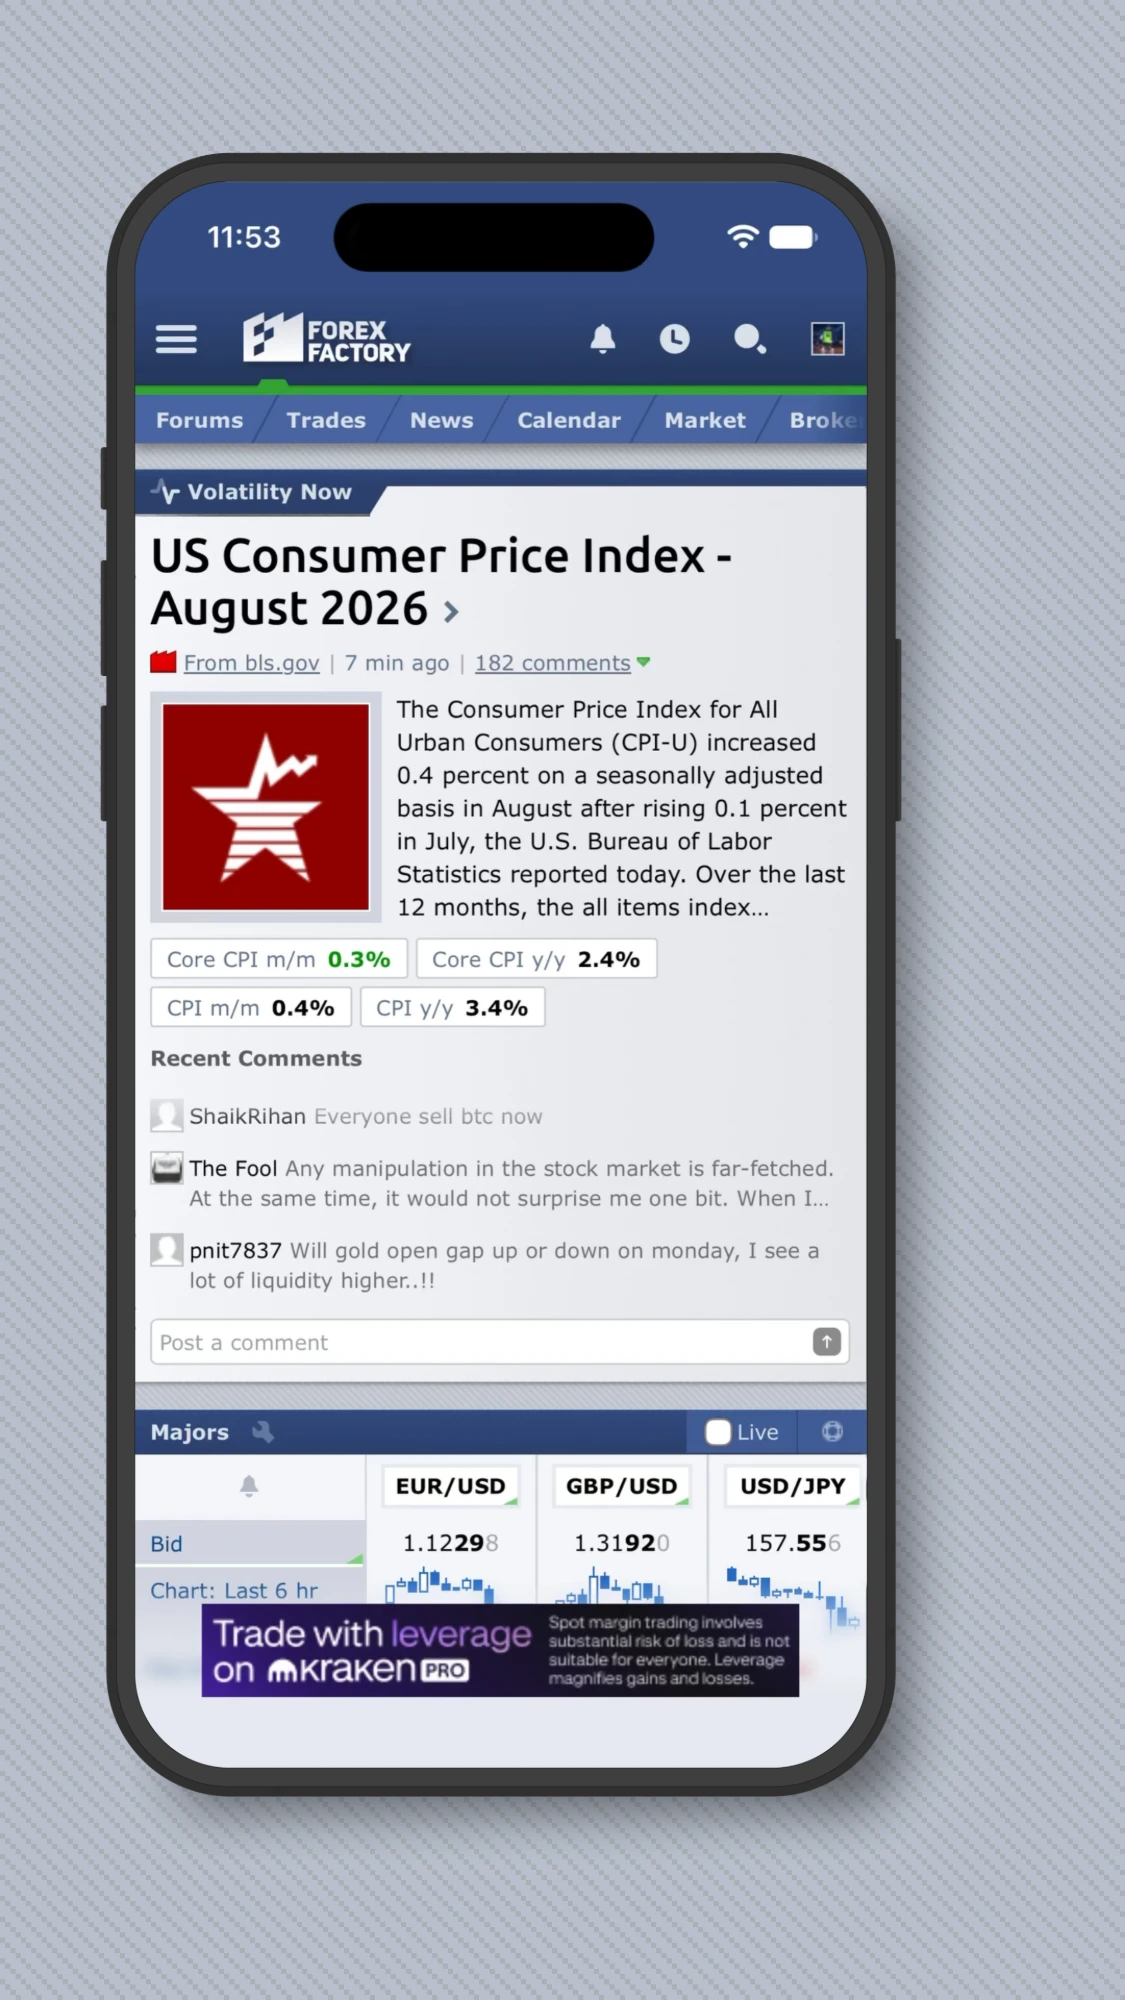
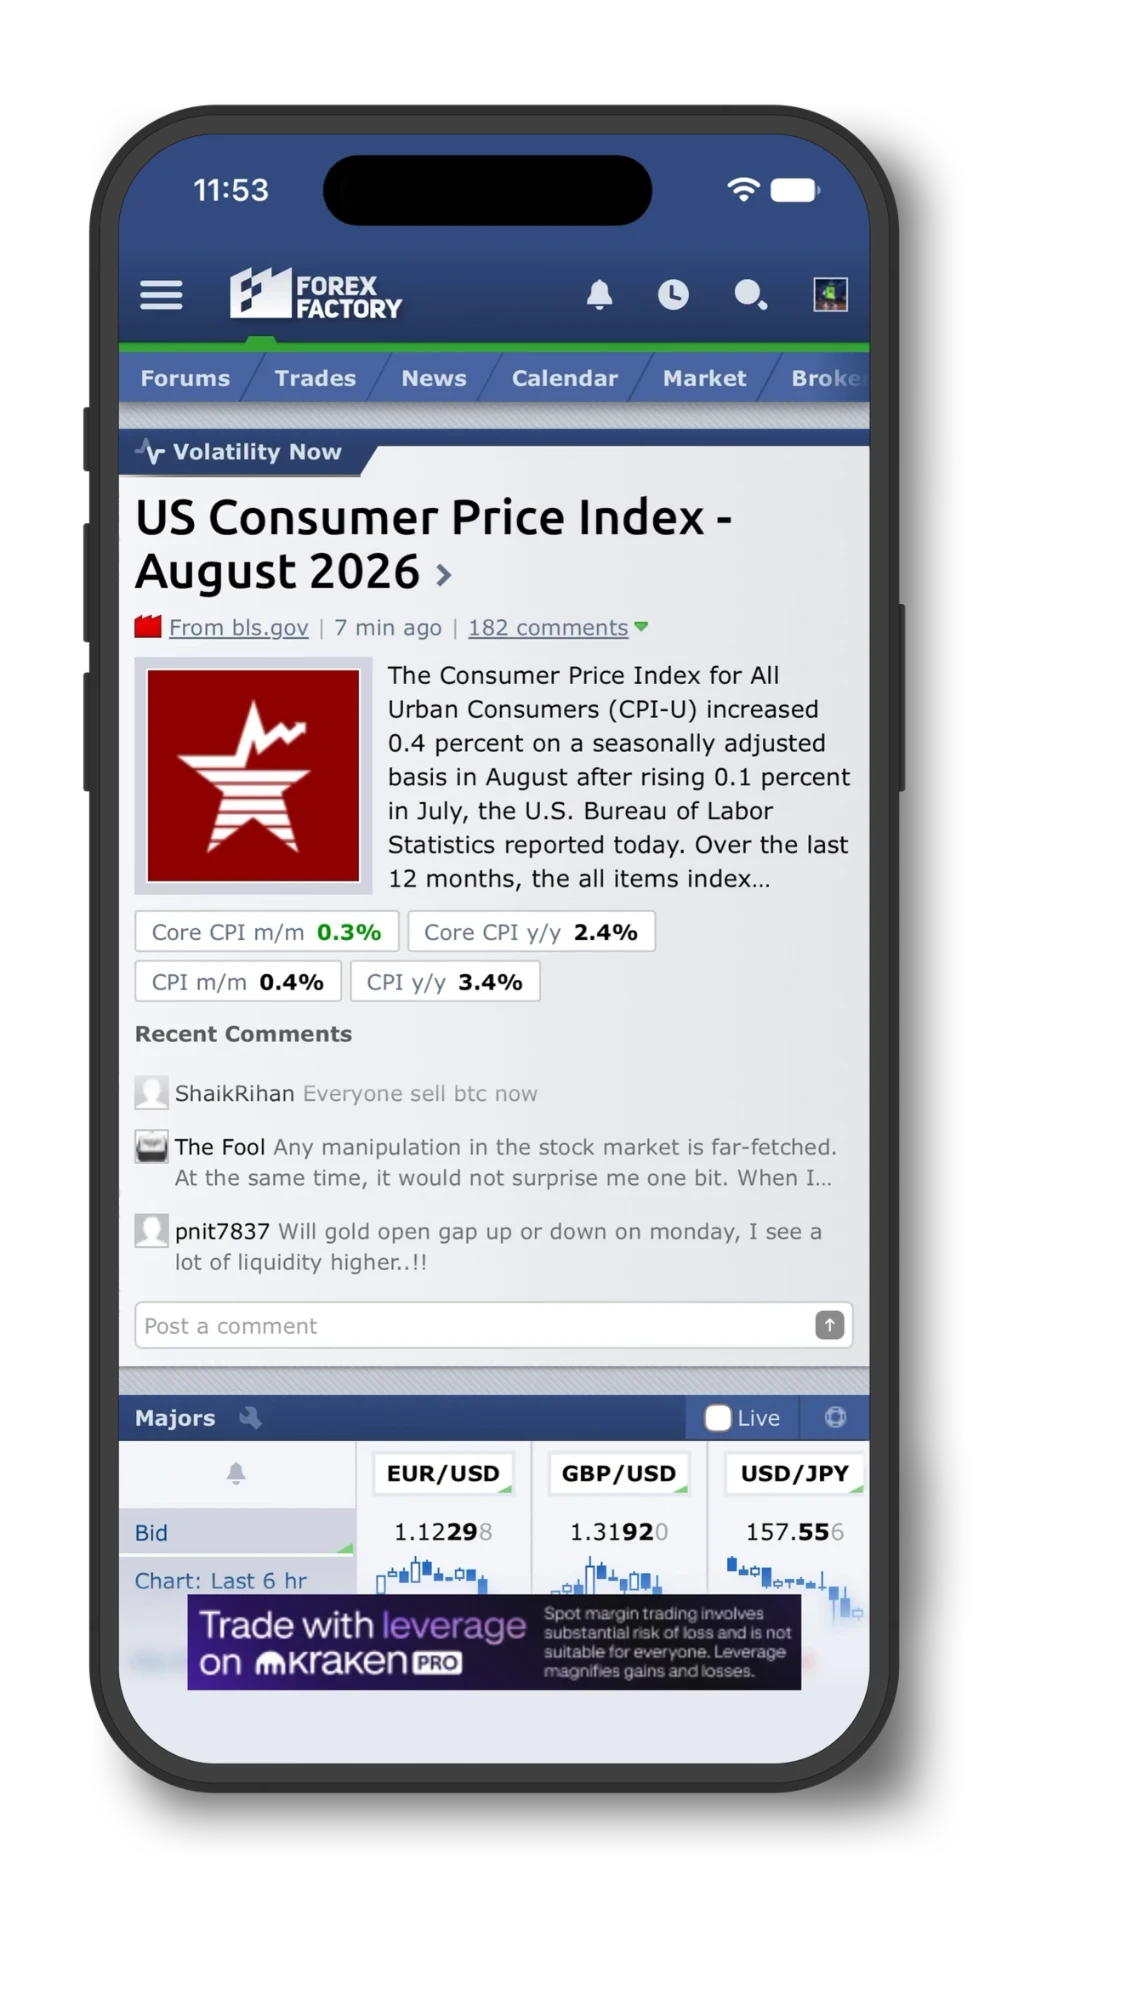
Volatility Now highlight: 5 s with 0.5 s lead-in and return to normal, alpha output, overlay-only mode
Claude-Session: https://claude.ai/code/session_01Y1ZwCEi3AYRvtf9RkSPXZM

diff --git a/highlight/volatility-now.html b/highlight/volatility-now.html
@@ -4,76 +4,84 @@
 <meta charset="utf-8">
 <title>Volatility Now highlight</title>
 <style>
-  body { margin: 0; background: #1b1f24; }
+  body { margin: 0; background: repeating-conic-gradient(#3a3f45 0 25%, #2c3136 0 50%) 0 0 / 24px 24px; }
   canvas { display: block; width: 100vw; height: auto; max-width: 540px; margin: 0 auto; }
+  body.render { background: none; }
   body.render canvas { width: auto; max-width: none; }
 </style>
 </head>
 <body>
 <canvas id="c" width="2160" height="3840"></canvas>
 <script>
-// "Volatility Now" highlight over the Forex Factory homepage frame (4.0 s line).
-// The background and the phone frame are never touched: everything happens inside the phone screen.
-// Geometry is measured on the 1125 x 2000 source frame and scaled to the 2160 x 3840 output.
-const W = 2160, H = 3840, SRC_W = 1125, K = W / SRC_W;
-const FPS = 60, DURATION = 4.0, FRAMES = Math.round(FPS * DURATION);
+// "Volatility Now" highlight on the Forex Factory phone frame (5.0 s line), rendered with transparency so it
+// can be composited over any background. The phone frame and its shadow are never touched: everything
+// happens inside the phone screen, and the last frames are identical to the untouched frame.
+// Geometry is measured on the 1121 x 2000 source frame; the frame is centred on a 2160 x 3840 canvas.
+const W = 2160, H = 3840, SRC_W = 1121, SRC_H = 2000;
+const K = H / SRC_H, OX = (W - SRC_W * K) / 2;
+const FPS = 30, DURATION = 5.0, FRAMES = Math.round(FPS * DURATION);
+// ?overlay: graphics only (no phone, no push-in), to stack on the phone image in the editor
+const OVERLAY = location.search.includes('overlay');
 
 const G = {
-  screen: { x: 133, y: 181, w: 735, h: 1587, r: 98 },     // phone screen (rounded)
-  island: { x: 335, y: 204, w: 318, h: 67 },              // camera cutout, stays fixed on top
-  card:   { x0: 135.5, y0: 469.5, x1: 866, y1: 1382 },    // the Volatility Now block
-  tab:    [[136, 470], [389, 470], [386, 486], [370, 512.5], [136, 512.5]], // navy label tab
-  icon:   { x: 166, y: 492 },                             // pulse icon in the tab
+  screen: { x: 117, y: 133, w: 754, h: 1631, r: 100 },    // phone screen (rounded)
+  island: { x: 324, y: 156, w: 327, h: 69 },              // camera cutout, stays fixed on top
+  card:   { x0: 118.5, y0: 428.5, x1: 869, y1: 1366 },    // the Volatility Now block
+  tab:    [[119, 429], [378, 429], [375, 445], [358, 473.5], [119, 473.5]], // navy label tab
+  icon:   { x: 150, y: 451 },                             // pulse icon in the tab
 };
 const GREEN = '63, 191, 70';      // Forex Factory green (header accent), brightened for video
 const DIM = '8, 14, 30';          // navy-black for the dim
 
-// Timeline (seconds)
+// Timeline in seconds. Nothing moves before 0.5 s; everything is back to the untouched frame by 4.75 s.
 const T = {
-  push:    [0.00, 4.00, 1.018],   // gentle push-in of the screen content (start, end, scale)
-  dim:     [0.20, 0.95, 0.62],    // everything outside the card dims (start, end, opacity)
-  outline: [0.45, 1.45],          // outline draws from the tab, both ways round the card
-  pop:     [0.90, 1.30],          // the tab lifts out as a badge (start, final scale), spring-damped
-  rings:   [1.35, 1.85],          // pulses from the icon
-  ringDur: 1.0,
-  shine:   [1.70, 2.35],          // light sweep across the tab
+  push:    { in: [0.50, 3.60], out: [3.60, 4.75], scale: 1.018 }, // gentle push-in of the screen content
+  dim:     { in: [0.65, 1.40], out: [3.90, 4.65], opacity: 0.62 }, // everything outside the card dims
+  outline: { draw: [0.95, 1.95], out: [3.75, 4.50] },              // draws from the tab both ways, then fades
+  pop:     { start: 1.40, back: [3.65, 4.35], scale: 1.30 },       // the tab lifts out as a badge (spring)
+  rings:   [1.85, 2.35], ringDur: 1.0,                             // pulses from the icon
+  shine:   [2.20, 2.85],                                           // light sweep across the tab
 };
 
 const clamp = (v, a = 0, b = 1) => Math.min(b, Math.max(a, v));
-const prog = (t, a, b) => clamp((t - a) / (b - a));
+const prog = (t, [a, b]) => clamp((t - a) / (b - a));
 const easeInOutCubic = x => x < 0.5 ? 4 * x * x * x : 1 - Math.pow(-2 * x + 2, 3) / 2;
 const easeInOutSine = x => -(Math.cos(Math.PI * x) - 1) / 2;
 const easeOutCubic = x => 1 - Math.pow(1 - x, 3);
 // damped spring 0 -> 1 (about 15% overshoot, settles in ~0.8 s)
 const spring = u => u <= 0 ? 0 : 1 - Math.exp(-5.5 * u) * (Math.cos(9 * u) + 5.5 / 9 * Math.sin(9 * u));
+// in-then-out envelope 0 -> 1 -> 0
+const envelope = (t, e, ease = easeInOutCubic) => ease(prog(t, e.in)) * (1 - ease(prog(t, e.out)));
+
+const P = (x, y) => [OX + x * K, y * K];                       // source px -> canvas px
 
 const canvas = document.getElementById('c');
 const ctx = canvas.getContext('2d');
 let img = null;
 
+function drawFrameImage() { ctx.drawImage(img, OX, 0, SRC_W * K, SRC_H * K); }
+
 function screenPath() {
-  const s = G.screen, p = new Path2D();
-  const e = 0.6; // stay a hair inside the screen edge so the bezel stays bit-identical
-  p.roundRect((s.x + e) * K, (s.y + e) * K, (s.w - 2 * e) * K, (s.h - 2 * e) * K, (s.r - e) * K);
+  const s = G.screen, e = 0.6; // a hair inside the screen edge so the bezel stays bit-identical
+  const [x, y] = P(s.x + e, s.y + e), p = new Path2D();
+  p.roundRect(x, y, (s.w - 2 * e) * K, (s.h - 2 * e) * K, (s.r - e) * K);
   return p;
 }
 
 // Screen content transform: scale about the card centre.
 function contentTransform(t) {
-  const s = 1 + (T.push[2] - 1) * easeInOutSine(prog(t, T.push[0], T.push[1]));
-  const cx = (G.card.x0 + G.card.x1) / 2 * K, cy = (G.card.y0 + G.card.y1) / 2 * K;
-  return { s, cx, cy, map: (x, y) => [cx + (x * K - cx) * s, cy + (y * K - cy) * s] };
+  const s = OVERLAY ? 1 : 1 + (T.push.scale - 1) * envelope(t, T.push, easeInOutSine);
+  const [cx, cy] = P((G.card.x0 + G.card.x1) / 2, (G.card.y0 + G.card.y1) / 2);
+  return { s, cx, cy, map: (x, y) => { const [px, py] = P(x, y); return [cx + (px - cx) * s, cy + (py - cy) * s]; } };
 }
 
-// Outline path: rounded rect inset in the card, as a list of points so it can be drawn progressively
-// from the tab corner in both directions.
+// Outline: rounded rect inset in the card, as points so it can be drawn progressively from the tab corner.
 function outlinePoints(tr) {
   const inset = 10, r = 12, c = G.card;
   const x0 = c.x0 + inset, y0 = c.y0 + inset, x1 = c.x1 - inset, y1 = c.y1 - inset;
   const pts = [];
   const arc = (cx, cy, a0, a1) => { for (let i = 0; i <= 12; i++) { const a = a0 + (a1 - a0) * i / 12; pts.push([cx + r * Math.cos(a), cy + r * Math.sin(a)]); } };
-  // clockwise from the top-left corner (the tab)
-  arc(x0 + r, y0 + r, Math.PI, 1.5 * Math.PI);
+  arc(x0 + r, y0 + r, Math.PI, 1.5 * Math.PI);          // clockwise from the top-left corner (the tab)
   arc(x1 - r, y0 + r, 1.5 * Math.PI, 2 * Math.PI);
   arc(x1 - r, y1 - r, 0, 0.5 * Math.PI);
   arc(x0 + r, y1 - r, 0.5 * Math.PI, Math.PI);
@@ -82,7 +90,6 @@ function outlinePoints(tr) {
 }
 
 function partial(pts, frac) {
-  // first `frac` of the polyline by length; returns points and the head position
   const seg = []; let total = 0;
   for (let i = 1; i < pts.length; i++) { const d = Math.hypot(pts[i][0] - pts[i - 1][0], pts[i][1] - pts[i - 1][1]); seg.push(d); total += d; }
   let left = total * frac; const out = [pts[0]];
@@ -100,11 +107,12 @@ function strokePoly(p) { ctx.beginPath(); ctx.moveTo(p[0][0], p[0][1]); for (con
 function renderFrame(i) {
   const t = i / FPS;
   ctx.setTransform(1, 0, 0, 1, 0, 0);
-  ctx.globalAlpha = 1; ctx.shadowBlur = 0; ctx.globalCompositeOperation = 'source-over';
+  ctx.globalAlpha = 1; ctx.shadowBlur = 0; ctx.shadowOffsetY = 0; ctx.globalCompositeOperation = 'source-over';
   ctx.imageSmoothingEnabled = true; ctx.imageSmoothingQuality = 'high';
+  ctx.clearRect(0, 0, W, H);
 
-  // 1. Untouched frame: background and phone.
-  ctx.drawImage(img, 0, 0, W, H);
+  // 1. Untouched frame: phone and its shadow, transparent around it (left out in overlay mode).
+  if (!OVERLAY) drawFrameImage();
 
   const scr = screenPath();
   const tr = contentTransform(t);
@@ -112,45 +120,48 @@ function renderFrame(i) {
   ctx.clip(scr);
 
   // 2. Screen content with the gentle push-in (only inside the screen).
-  ctx.save();
-  ctx.translate(tr.cx, tr.cy); ctx.scale(tr.s, tr.s); ctx.translate(-tr.cx, -tr.cy);
-  ctx.drawImage(img, 0, 0, W, H);
-  ctx.restore();
+  if (tr.s > 1.00001) {
+    ctx.save();
+    ctx.translate(tr.cx, tr.cy); ctx.scale(tr.s, tr.s); ctx.translate(-tr.cx, -tr.cy);
+    drawFrameImage();
+    ctx.restore();
+  }
 
   const [cx0, cy0] = tr.map(G.card.x0, G.card.y0), [cx1, cy1] = tr.map(G.card.x1, G.card.y1);
   const cardRect = new Path2D(); cardRect.rect(cx0, cy0, cx1 - cx0, cy1 - cy0);
 
   // 3. Dim everything outside the card, plus a soft shadow so the card lifts.
-  const d = easeInOutCubic(prog(t, T.dim[0], T.dim[1]));
+  const d = envelope(t, T.dim);
   if (d > 0) {
     const outside = new Path2D(); outside.addPath(scr); outside.rect(cx0, cy0, cx1 - cx0, cy1 - cy0);
     ctx.save();
     ctx.clip(outside, 'evenodd');
-    ctx.fillStyle = `rgba(${DIM}, ${T.dim[2] * d})`;
+    ctx.fillStyle = `rgba(${DIM}, ${T.dim.opacity * d})`;
     ctx.fill(scr);
-    ctx.shadowColor = `rgba(0, 0, 0, ${0.55 * d})`; ctx.shadowBlur = 70 * K * 0.5;
+    ctx.shadowColor = `rgba(0, 0, 0, ${0.55 * d})`; ctx.shadowBlur = 35 * K;
     ctx.fillStyle = '#000';
     ctx.fill(cardRect);
     ctx.restore();
   }
 
-  // 4. Outline drawing from the tab corner both ways round the card, meeting at the far corner.
-  const o = easeInOutCubic(prog(t, T.outline[0], T.outline[1]));
-  if (o > 0) {
+  // 4. Outline drawing from the tab corner both ways round the card, then fading out.
+  const o = easeInOutCubic(prog(t, T.outline.draw));
+  const oa = 1 - easeInOutCubic(prog(t, T.outline.out));
+  if (o > 0 && oa > 0) {
     const pts = outlinePoints(tr);
     const cw = partial(pts, o * 0.5);
     const ccw = partial(pts.slice().reverse(), o * 0.5);
-    const breathe = t > T.outline[1] ? 0.5 + 0.5 * Math.sin((t - T.outline[1]) * 2 * Math.PI / 1.6 - Math.PI / 2) : 0;
+    const breathe = t > T.outline.draw[1] ? 0.5 + 0.5 * Math.sin((t - T.outline.draw[1]) * 2 * Math.PI / 1.6 - Math.PI / 2) : 0;
     ctx.save();
+    ctx.globalAlpha = oa;
     ctx.lineJoin = 'round'; ctx.lineCap = 'round';
-    ctx.strokeStyle = `rgba(${GREEN}, 1)`;
+    ctx.strokeStyle = `rgb(${GREEN})`;
     ctx.lineWidth = 4.6 * K;
     ctx.shadowColor = `rgba(${GREEN}, ${0.75 + 0.15 * breathe})`;
     ctx.shadowBlur = (20 + 10 * breathe) * K;
     strokePoly(cw); strokePoly(ccw);
     ctx.shadowBlur = 0;
-    // bright heads while drawing
-    if (o < 1) {
+    if (o < 1) {                                   // bright heads while drawing
       for (const p of [cw[cw.length - 1], ccw[ccw.length - 1]]) {
         const g = ctx.createRadialGradient(p[0], p[1], 0, p[0], p[1], 16 * K);
         g.addColorStop(0, `rgba(255, 255, 255, ${0.95 * (1 - o * 0.6)})`);
@@ -162,23 +173,24 @@ function renderFrame(i) {
     ctx.restore();
   }
 
-  // 5. The tab lifts out as a badge: scaled about its left edge, with a shadow and a green rim.
-  const ps = 1 + (T.pop[1] - 1) * spring(t - T.pop[0]);
+  // 5. The tab lifts out as a badge (spring), then eases back into place.
+  const back = easeInOutCubic(prog(t, T.pop.back));
+  const ps = 1 + (T.pop.scale - 1) * spring(t - T.pop.start) * (1 - back);
   const [ax, ay] = tr.map(G.tab[0][0], (G.tab[0][1] + G.tab[4][1]) / 2);
-  const popT = (x, y) => [ax + (x - ax) * ps, ay + (y - ay) * ps];        // screen coords -> popped
+  const popT = (x, y) => [ax + (x - ax) * ps, ay + (y - ay) * ps];
   const tabPath = new Path2D();
   G.tab.forEach(([x, y], k) => { const [px, py] = tr.map(x, y); k ? tabPath.lineTo(px, py) : tabPath.moveTo(px, py); });
   tabPath.closePath();
-  const lift = clamp((ps - 1) / (T.pop[1] - 1));
+  const lift = clamp((ps - 1) / (T.pop.scale - 1));
   if (ps > 1.0005) {
     ctx.save();
     ctx.translate(ax, ay); ctx.scale(ps, ps); ctx.translate(-ax, -ay);
     ctx.shadowColor = `rgba(0, 0, 0, ${0.5 * lift})`; ctx.shadowBlur = 18 * K; ctx.shadowOffsetY = 5 * K;
     ctx.fillStyle = '#2c4274'; ctx.fill(tabPath);
-    ctx.shadowColor = 'transparent';
+    ctx.shadowColor = 'transparent'; ctx.shadowOffsetY = 0;
     ctx.save(); ctx.clip(tabPath);
     ctx.translate(tr.cx, tr.cy); ctx.scale(tr.s, tr.s); ctx.translate(-tr.cx, -tr.cy);
-    ctx.drawImage(img, 0, 0, W, H);
+    drawFrameImage();
     ctx.restore();
     ctx.strokeStyle = `rgba(${GREEN}, ${lift})`; ctx.lineWidth = 2.2 * K / ps; ctx.lineJoin = 'round';
     ctx.shadowColor = `rgba(${GREEN}, ${0.7 * lift})`; ctx.shadowBlur = 12 * K;
@@ -189,7 +201,7 @@ function renderFrame(i) {
   // 6. Pulses from the icon.
   const [ix, iy] = popT(...tr.map(G.icon.x, G.icon.y));
   for (const start of T.rings) {
-    const u = prog(t, start, start + T.ringDur);
+    const u = prog(t, [start, start + T.ringDur]);
     if (u <= 0 || u >= 1) continue;
     const e = easeOutCubic(u);
     ctx.save();
@@ -201,7 +213,7 @@ function renderFrame(i) {
   }
 
   // 7. Light sweep across the popped tab.
-  const sh = prog(t, T.shine[0], T.shine[1]);
+  const sh = prog(t, T.shine);
   if (sh > 0 && sh < 1) {
     const [bx] = popT(...tr.map(G.tab[1][0], 0));
     const pos = ax - 60 * K + (bx - ax + 120 * K) * easeInOutSine(sh);
@@ -219,9 +231,11 @@ function renderFrame(i) {
   ctx.restore(); // screen clip
 
   // 8. Camera cutout stays exactly where it is, on top of everything.
+  if (OVERLAY) return;
   ctx.save();
-  const isl = new Path2D(); const s = G.island; isl.roundRect(s.x * K, s.y * K, s.w * K, s.h * K, s.h / 2 * K);
-  ctx.clip(isl); ctx.drawImage(img, 0, 0, W, H);
+  const s = G.island, [sx, sy] = P(s.x, s.y), isl = new Path2D();
+  isl.roundRect(sx, sy, s.w * K, s.h * K, s.h / 2 * K);
+  ctx.clip(isl); drawFrameImage();
   ctx.restore();
 }
 
